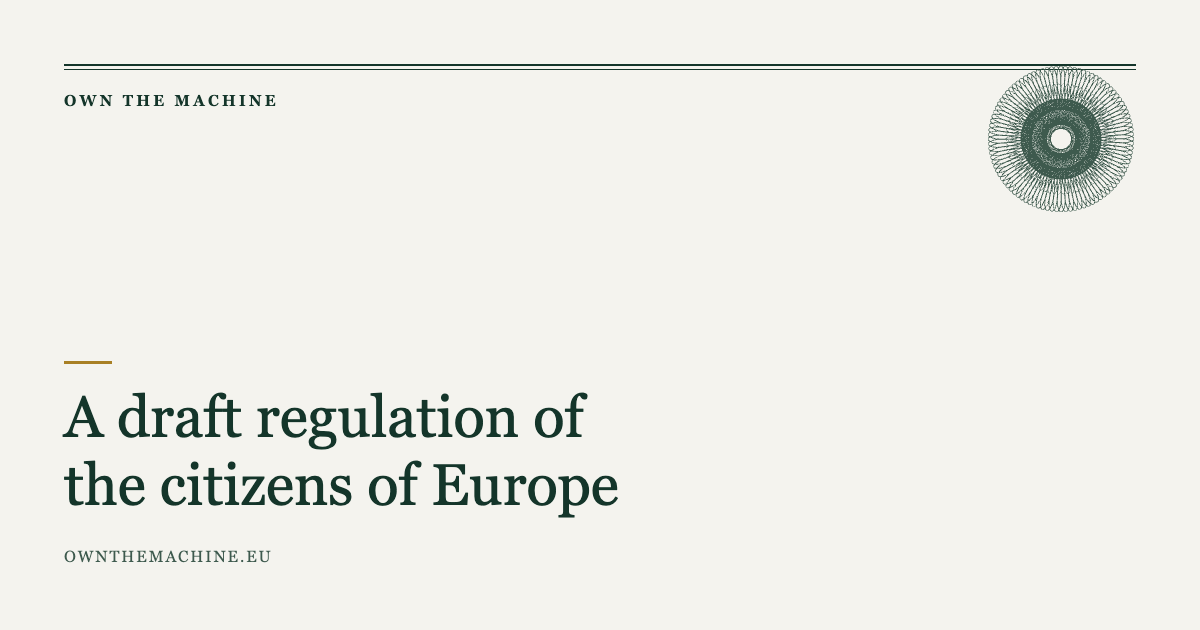
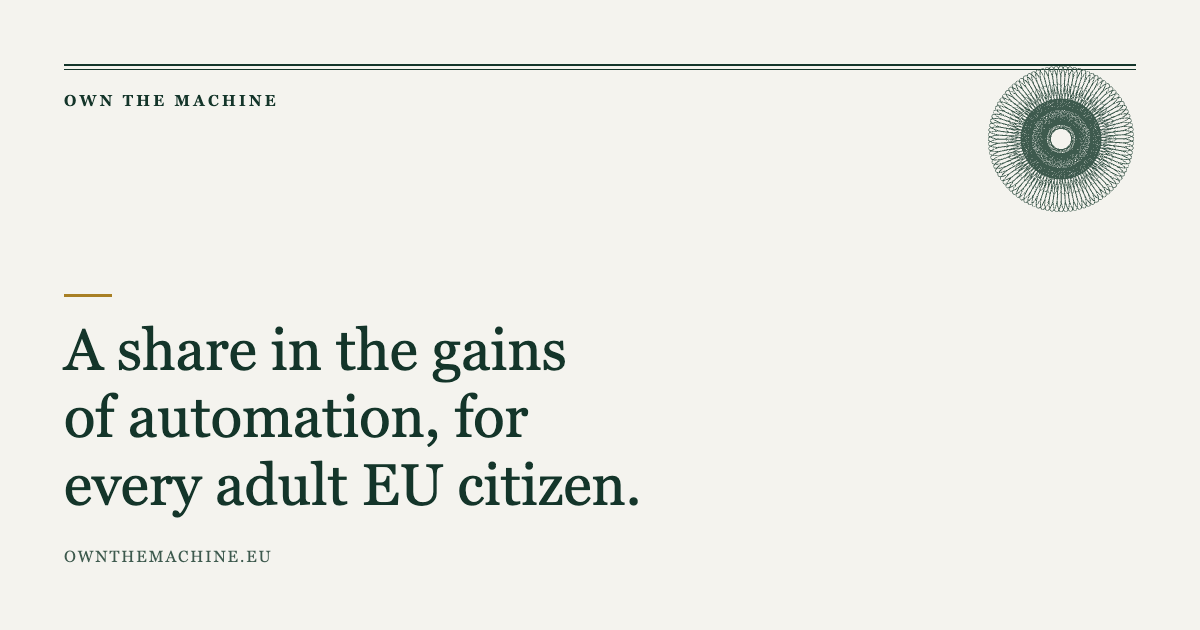
Review fixes: experts page, get-involved lead, FAQ pointer, social cards, guards

Changed region(s): [[0.0308, 0.5127, 0.5242, 0.8444], [0.0617, 0.4524, 0.0925, 0.4825]]

diff --git a/translations/reviews/2026-10-30-plain-front-en.md b/translations/reviews/2026-10-30-plain-front-en.md
@@ -10,7 +10,7 @@ date: 2026-10-30
 
 Input: the new home text and the Questions and answers text, followed by
 Articles 1, 2, 3, 5, 7, 8 and 10 of the draft regulation and sections 2.3 and
-2.4 of the explanatory memorandum. Seven rounds; round 7 returned PUBLISH.
+2.4 of the explanatory memorandum. Rounds 1 to 7 covered the whole text and round 7 returned PUBLISH. Rounds 8 to 10 (same day) re-reviewed only the "Which companies would be covered?" answer, changed after a review of the pull request, against Articles 3 and 4; round 10 returned PUBLISH.
 Each round reviewed the text as it stood after the previous round's fixes.
 
 ## Editor disposition (30 October 2026)
@@ -32,6 +32,11 @@ Each round reviewed the text as it stood after the previous round's fixes.
 | 6 | Accrued balances are inheritable (Article 10(4)(b)) | Applied: "money already paid into your account is yours and passes to your heirs". |
 | 6 | Trigger events for share acquisition | Applied: "on a sale or listing, after a large payout to owners or after seven years". |
 | 6 | State the 3 % | Applied: "a fixed 3 %". |
+| 8 | "Small and medium businesses are not the target" is a change requested by pull request review ("are unlikely to be covered", because Article 3(6) allows designation below the thresholds) | Applied before round 8; round 10 found no overclaim. |
+| 8 | Scope omits automated cognitive services (Article 3(1)(a)) | Applied: "that provide automated cognitive services, or goods and services whose production depends heavily on them". |
+| 8, 9 | "In the main option" is impact-assessment jargon in a statutory explainer | Rejected: "main option" is the project's own framing on every page (the draft is one option among several that the Commission is asked to assess); not a claim about the status of Article 3. |
+| 9 | "depend on them" blurs Article 3(1)(a) | Applied: "whose production depends heavily on them". |
+| 9 | "market value" versus "fair market value", worldwide compensation of labour, private companies | Rejected: Annex I defines the calculation; the plain answer states the thresholds, not the valuation method. The Q&A on the main page already points to the designation article. |
 
 ## Final text reviewed (round 7)
 
@@ -438,4 +443,138 @@ VERDICT: REVISE
 ---
 
 VERDICT: PUBLISH
+
+
+## Round 8 (changed answer only), verbatim
+
+
+> Reviewer: `vertex/gemini-3.7-flash@eu` · router router.eu.requesty.ai · geolocation eu · retention 0d · trained-on false · lab google
+> 2026-10-30T18:20:15+00:00 · tokens in=1782 out=3625
+> Prompt: layer-fidelity.md · Verbatim model output below ; do not edit.
+
[2 lines of base64/hex data omitted]
+
+### Finding 1: UNDERDISCLOSURE — Complete Omission of Automated Cognitive Scope
+
+* **Plain Layer Quote:**  
+  > "...whose output depends far less on employing people, and only after a check by the Commission."
+* **Enacting Terms Quote:**  
+  > "Article 3(1)(a): it provides automated cognitive services, or goods or services whose production depends to a significant extent on automated cognitive systems, in the internal market;"
+* **Reader Harm:** Traditional capital-intensive, low-headcount businesses (e.g., real estate investment trusts, automated infrastructure, royalty vehicles) will believe they are captured solely because of their valuation-to-payroll ratio, while automated cognitive technology providers are not informed of the core substantive trigger for coverage.
+* **Minimal Fix (Plain Layer):** Specify that the undertaking must provide AI or automated cognitive services (or goods/services substantially dependent on them).
+
+---
+
+### Finding 2: TERM DRIFT — Geographic Nexus Requirement
+
+* **Plain Layer Quote:**  
+  > "...mainly very large companies operating in at least three Member States..."
+* **Enacting Terms Quote:**  
+  > "Article 3(2)(a): ...and it provides the goods or services referred to in that point in at least three Member States;"
+* **Reader Harm:** "Operating in at least three Member States" implies general corporate activity, registration, or routine offices, whereas the enacting terms strictly require providing the specific *automated cognitive goods or services* across at least three Member States.
+* **Minimal Fix (Plain Layer):** Change "operating in at least three Member States" to "providing those automated cognitive services or goods in at least three Member States".
+
+---
+
+### Finding 3: TERM DRIFT — Policy Option Jargon in Statutory Explainer
+
+* **Plain Layer Quote:**  
+  > "In the main option, mainly very large companies..."
+* **Enacting Terms Quote:**  
+  > "Article 3(1): An undertaking shall be designated as a covered undertaking where..."
+* **Reader Harm:** Using impact-assessment drafting language ("In the main option") falsely implies to companies and citizens that the thresholds are merely one alternative under active policy consideration rather than the binding statutory designation framework established by the Regulation.
+* **Minimal Fix (Plain Layer):** Delete "In the main option, mainly" and replace with "Mainly".
+
+---
+
+VERDICT: REVISE
+
+
+## Round 9 (changed answer only), verbatim
+
+
+> Reviewer: `vertex/gemini-3.7-flash@eu` · router router.eu.requesty.ai · geolocation eu · retention 0d · trained-on false · lab google
+> 2026-10-30T18:20:51+00:00 · tokens in=1796 out=4507
+> Prompt: layer-fidelity.md · Verbatim model output below ; do not edit.
+
[2 lines of base64/hex data omitted]
+
+### 1. TERM DRIFT / SCOPE MISCHARACTERISATION (Article 3(1)(a))
+
+* **Plain Layer Quote:**  
+  > "...goods and services that depend on them..."
+* **Enacting Terms Quote:**  
+  > Article 3(1)(a): "...goods or services whose production depends to a significant extent on automated cognitive systems..."
+* **Reader Harm:**  
+  The colloquial phrasing "depend on them" expands and blurs the statutory scope. In the enacting terms, the test strictly requires that the *production* of the goods or services depends *to a significant extent* on *automated cognitive systems*, not merely that an undertaking sells downstream products or services that rely on cognitive service features.
+* **Minimal Fix (Plain Layer):**  
+  Replace "goods and services that depend on them" with "goods or services whose production depends significantly on automated cognitive systems".
+
+---
+
+### 2. UNDERDISCLOSURE / SCOPE AMBIGUITY (Article 3(2) & Article 3(7))
+
+* **Plain Layer Quote:**  
+  > "...75 billion euro of market value, with a market value at least 80 times what they spend on their workforce..."
+* **Enacting Terms Quote:**  
+  > Article 3(2)(b): "...its fair market value equals or exceeds eighty times its annual worldwide compensation of labour, each calculated in accordance with Annex I..."  
+  > Article 3(7): "The obligations laid down in this Regulation shall apply to a covered undertaking irrespective of whether its shares are admitted to trading..."
+* **Reader Harm:**  
+  Using "market value" rather than "fair market value" underdiscloses that unlisted/private undertakings with no public market capitalisation are fully within scope prior to any liquidity event. Furthermore, omitting that the denominator is *worldwide* compensation of labour obscures how the 80x decoupling ratio is calculated for global technology firms operating in the EU.
+* **Minimal Fix (Plain Layer):**  
+  Adjust the text to state: "75 billion euro of fair market value (whether publicly traded or private), with a fair market value at least 80 times its worldwide workforce compensation".
+
+---
+
+### 3. TERM DRIFT / LEGISLATIVE STATUS (Article 3)
+
+* **Plain Layer Quote:**  
+  > "In the main option, mainly very large companies..."
+* **Enacting Terms Quote:**  
+  > Article 3(1): "An undertaking shall be designated as a covered undertaking where..."
+* **Reader Harm:**  
+  Framing the core designation criteria as "In the main option" carries over impact-assessment/consultation terminology into what is presented as the rules of the draft Regulation. This creates confusion as to whether these thresholds are operative statutory rules or merely one alternative policy option under consideration.
+* **Minimal Fix (Plain Layer):**  
+  Remove "In the main option," and begin directly with "Under the proposed Regulation, mainly very large companies...".
+
+---
+
+VERDICT: REVISE
+
+
+## Round 10 (changed answer only), verbatim
+
+
+> Reviewer: `vertex/gemini-3.7-flash@eu` · router router.eu.requesty.ai · geolocation eu · retention 0d · trained-on false · lab google
+> 2026-10-30T18:21:11+00:00 · tokens in=1798 out=2123
+> Prompt: layer-fidelity.md · Verbatim model output below ; do not edit.
+
[2 lines of base64/hex data omitted]
+
+### Drift Detector Assessment
+
+**1. OVERCLAIM Analysis**
+* None detected. The plain-language answer accurately reflects the dual path to designation (rebuttable quantitative presumption under Article 3(2) vs. market investigation under Article 3(6) / Article 4). It avoids asserting an absolute SME exemption, appropriately framing coverage as "unlikely" given the market investigation requirement.
+
+**2. UNDERDISCLOSURE Analysis**
+* None detected. The quantitative gates (EUR 7.5B Union turnover or EUR 75B market value, 80x compensation ratio, 3 Member States, 2 consecutive financial years) and qualitative criteria (automated cognitive services/dependency, labour decoupling) match Article 3(1)–(2) without omitting key eligibility constraints.
+
+**3. TERM DRIFT Analysis**
+* None detected. The colloquial translations ("yearly EU turnover" for "annual Union turnover", "what they spend on their workforce" for "annual worldwide compensation of labour", and "substantially decoupled" as "depends far less on employing people") preserve the legal extension of the defined concepts without altering scope or applicability.
+
+---
+
+VERDICT: PUBLISH
+
+
+## Final text of the changed answer (round 10)
+
+# PLAIN LAYER UNDER REVIEW (changed answer only)
+
+### Which companies would be covered?
+
+In the main option, mainly very large companies that provide automated cognitive services, or goods and services whose production depends heavily on them, in at least three Member States (the draft starts from 7.5 billion euro of yearly EU turnover or 75 billion euro of market value, with a market value at least 80 times what they spend on their workforce, for two years running) whose output depends far less on employing people, and only after a check by the Commission. The Commission could also designate a company below those thresholds, but only after a market investigation. Small and medium businesses are unlikely to be covered.
 
